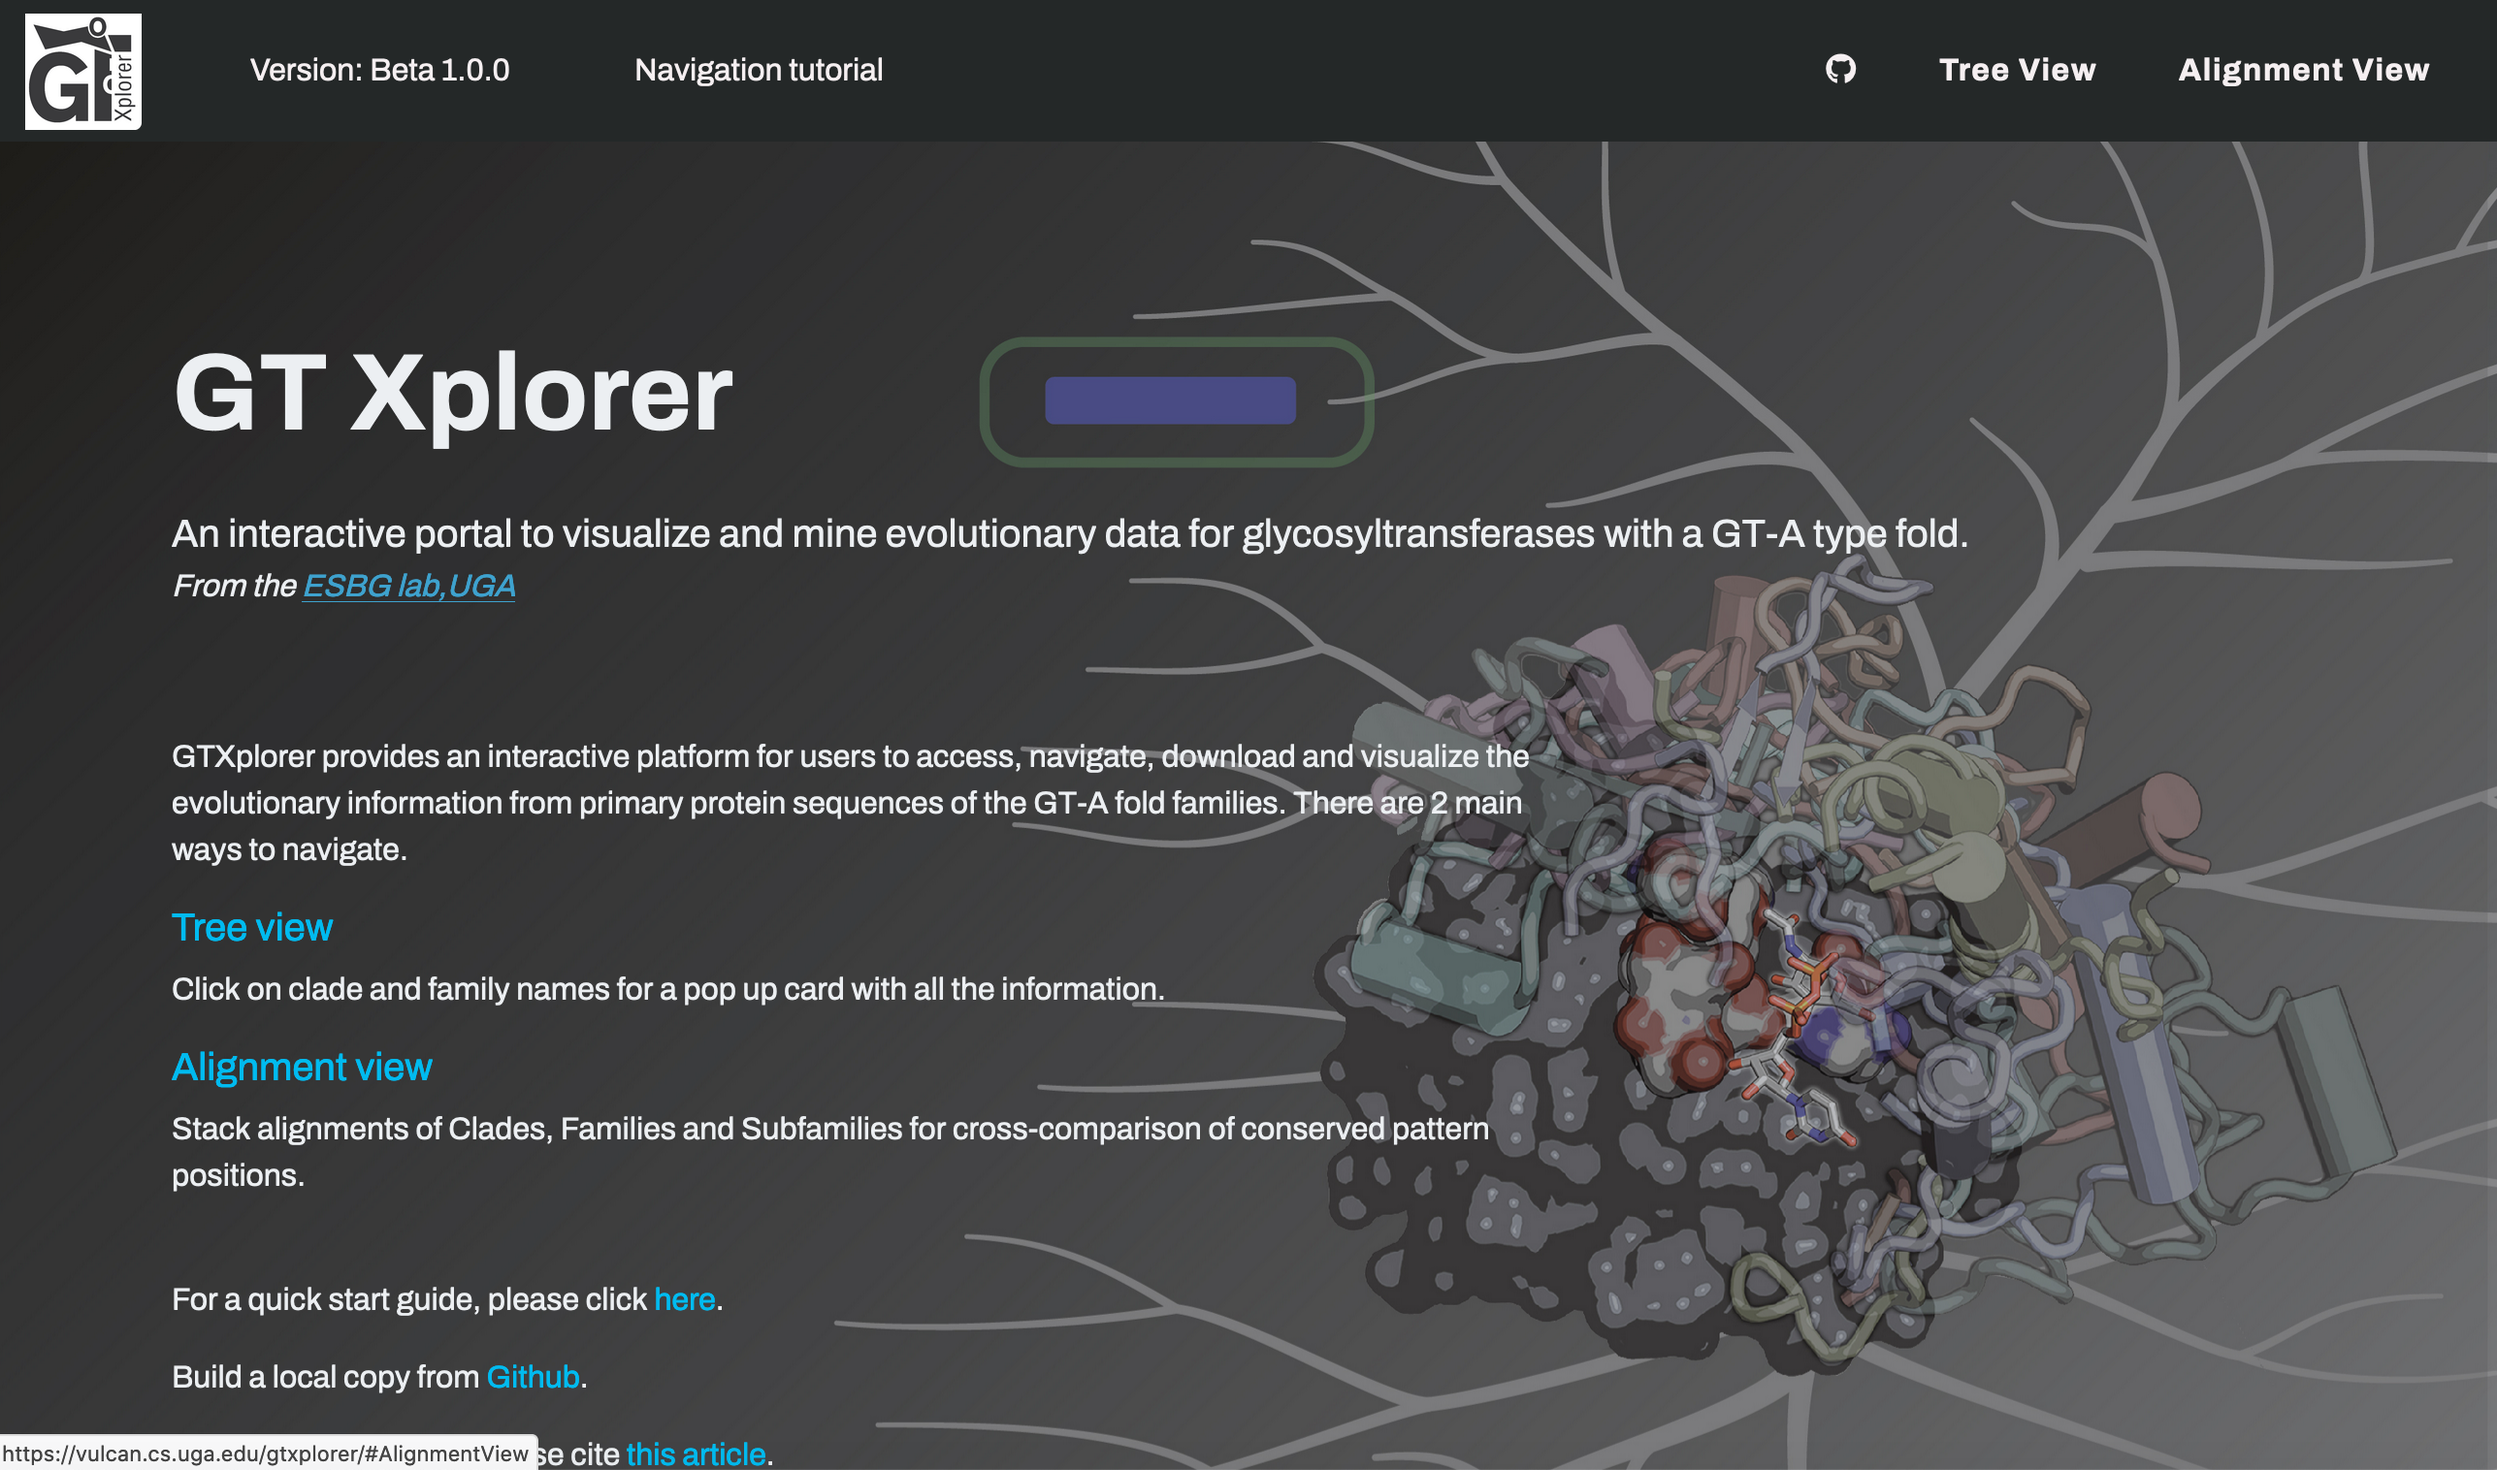
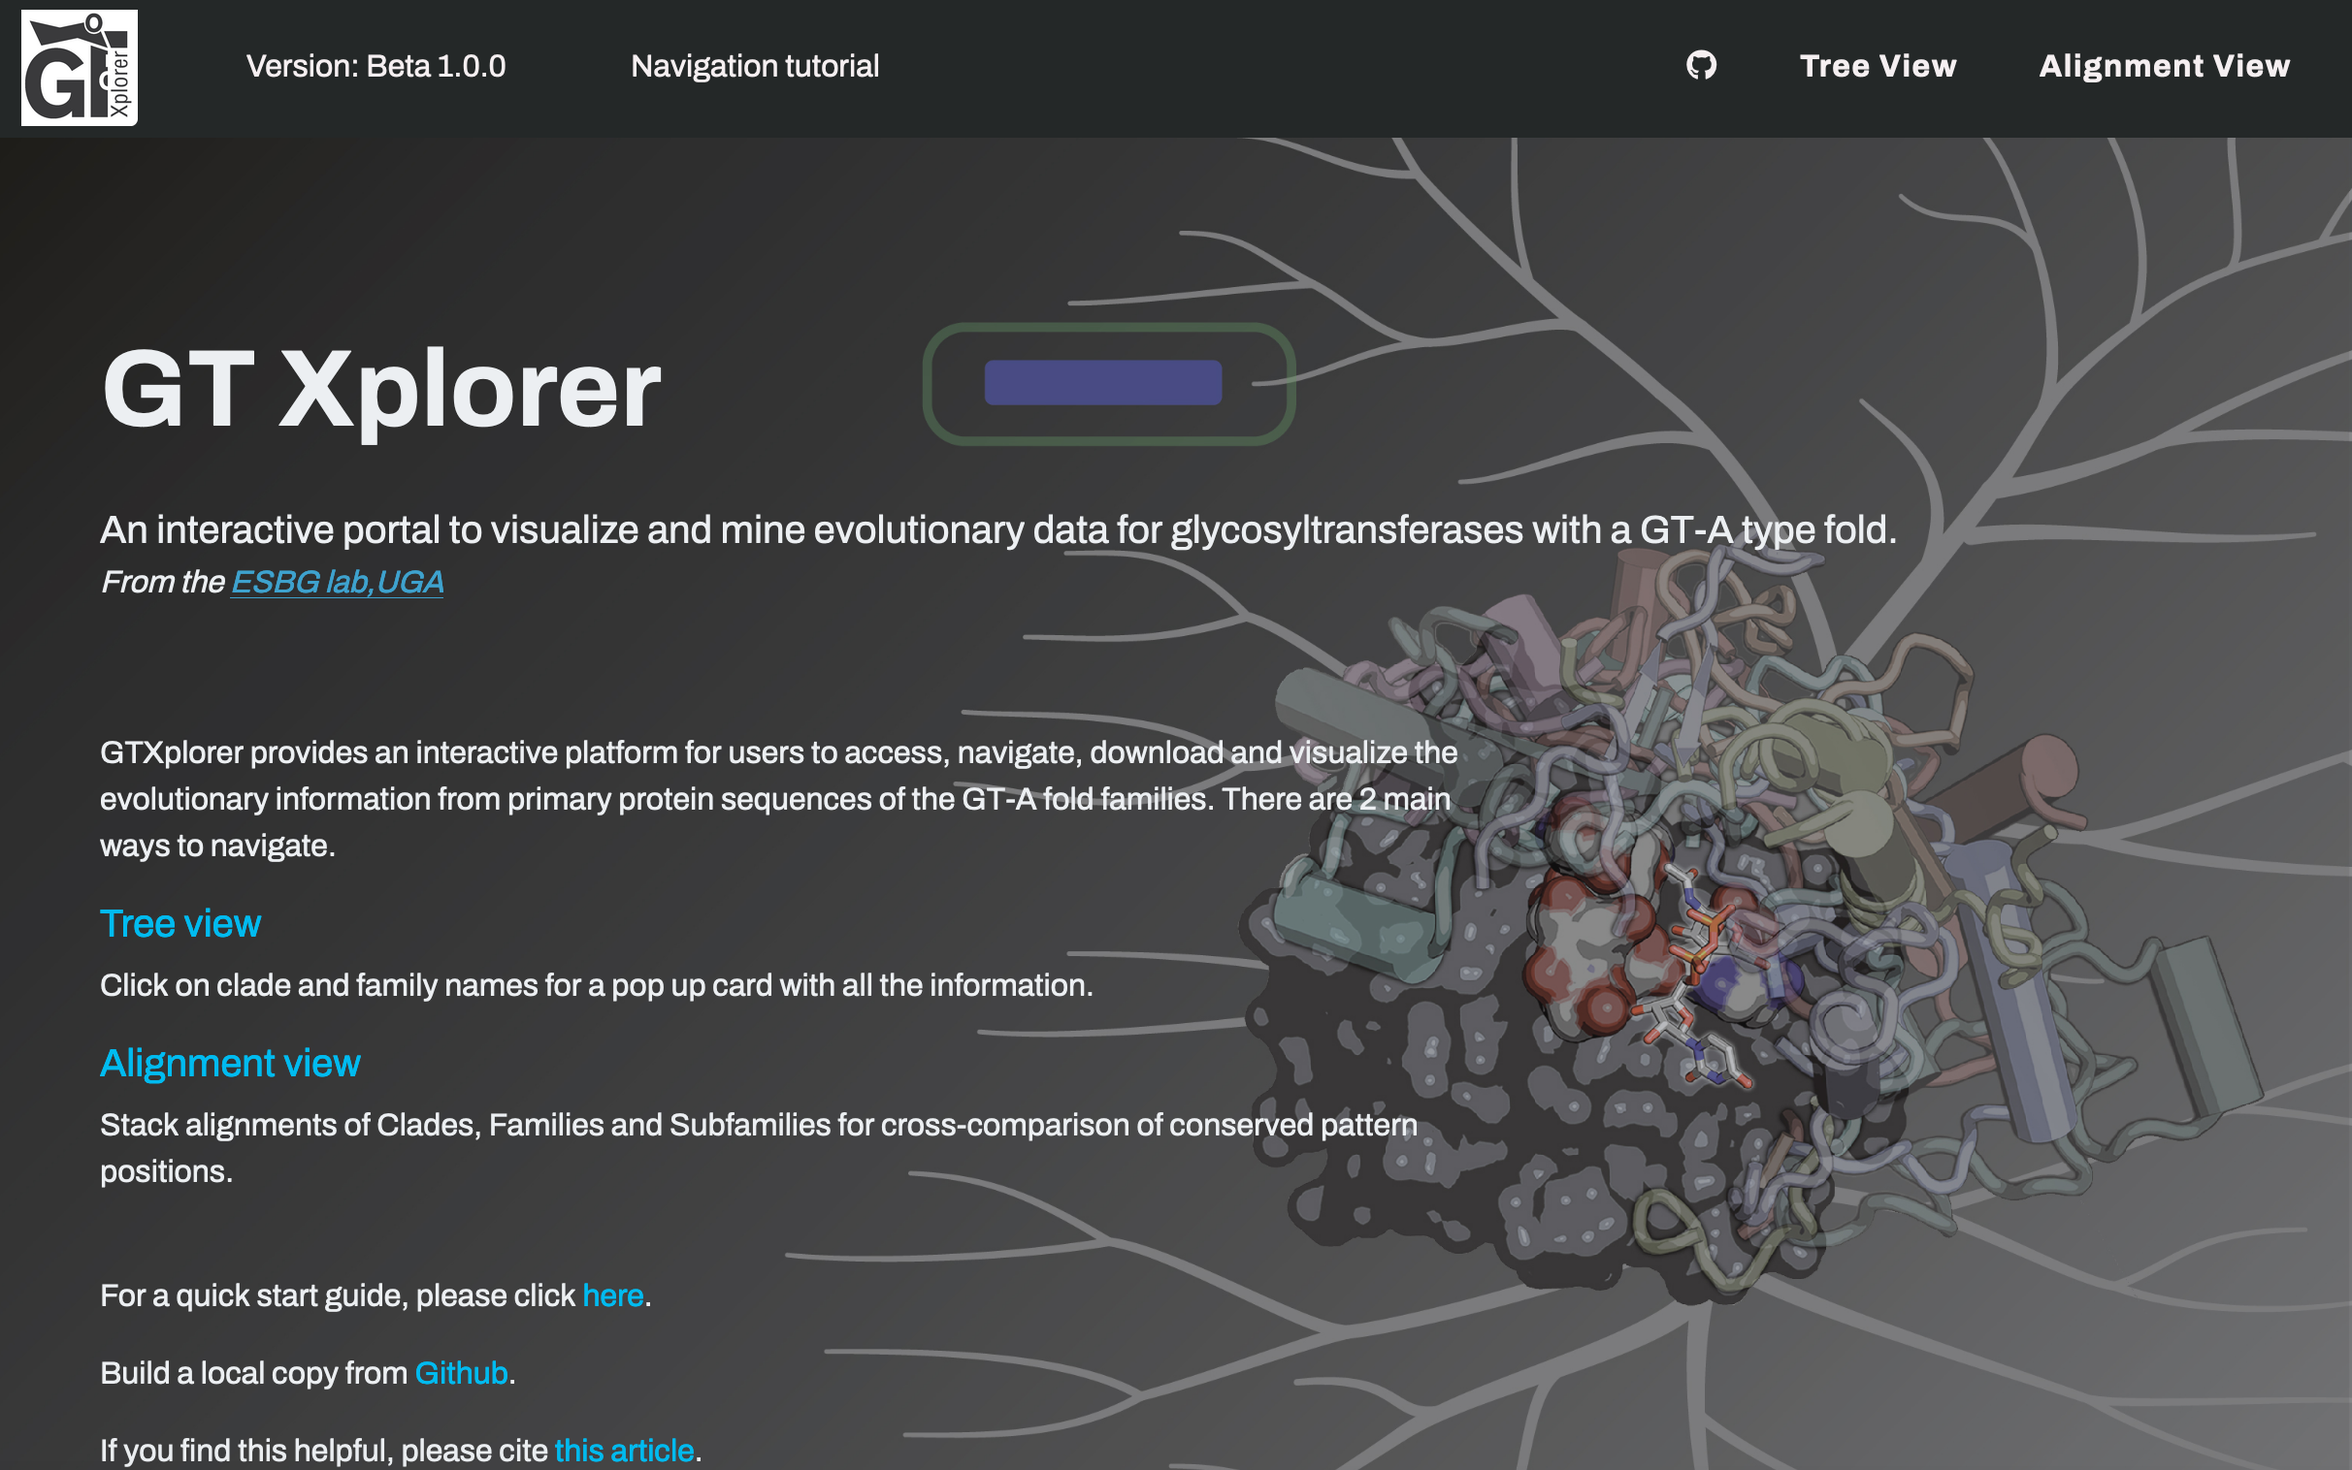
update README image

diff --git a/README.md b/README.md
@@ -4,6 +4,8 @@ Server [![Netlify Status](https://api.netlify.com/api/v1/badges/3189882c-cd2a-48
 # GTXplorer: A portal to navigate and visualize the evolutionary information encoded in fold A glycosyltransferases
 This repo includes the GTXplorer web database files and can be downloaded to deploy a local copy of GTXplorer.
 
+![GTXplorer](landing_page.png)
+
 ---
 ## Configurations
 
